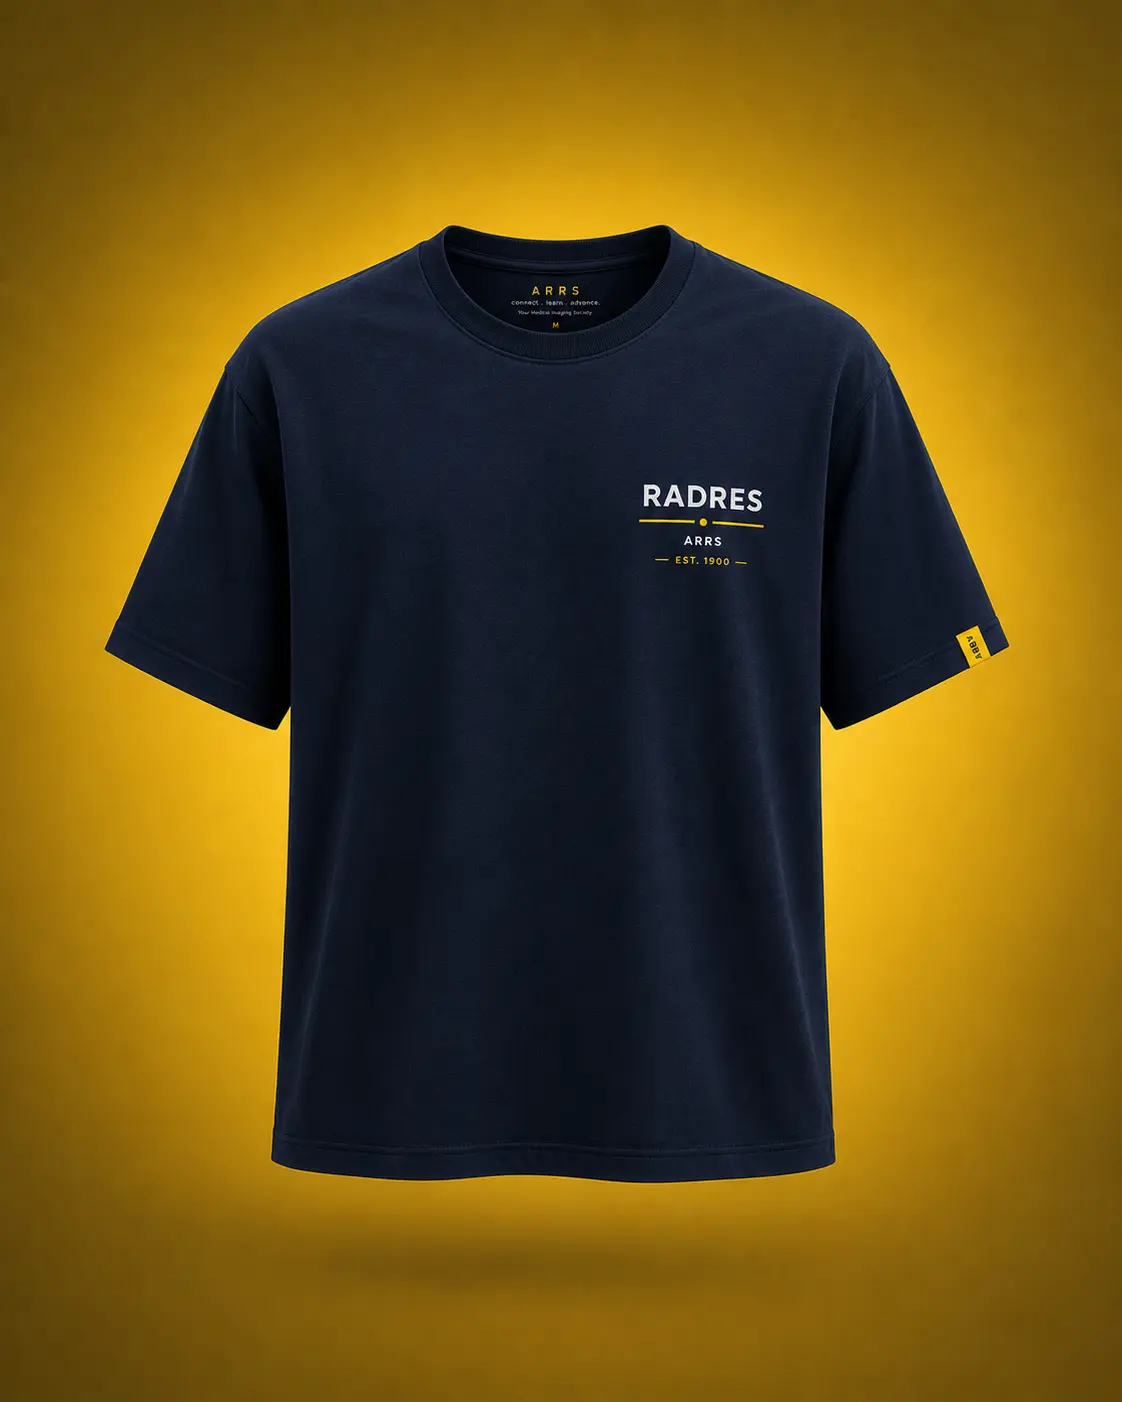
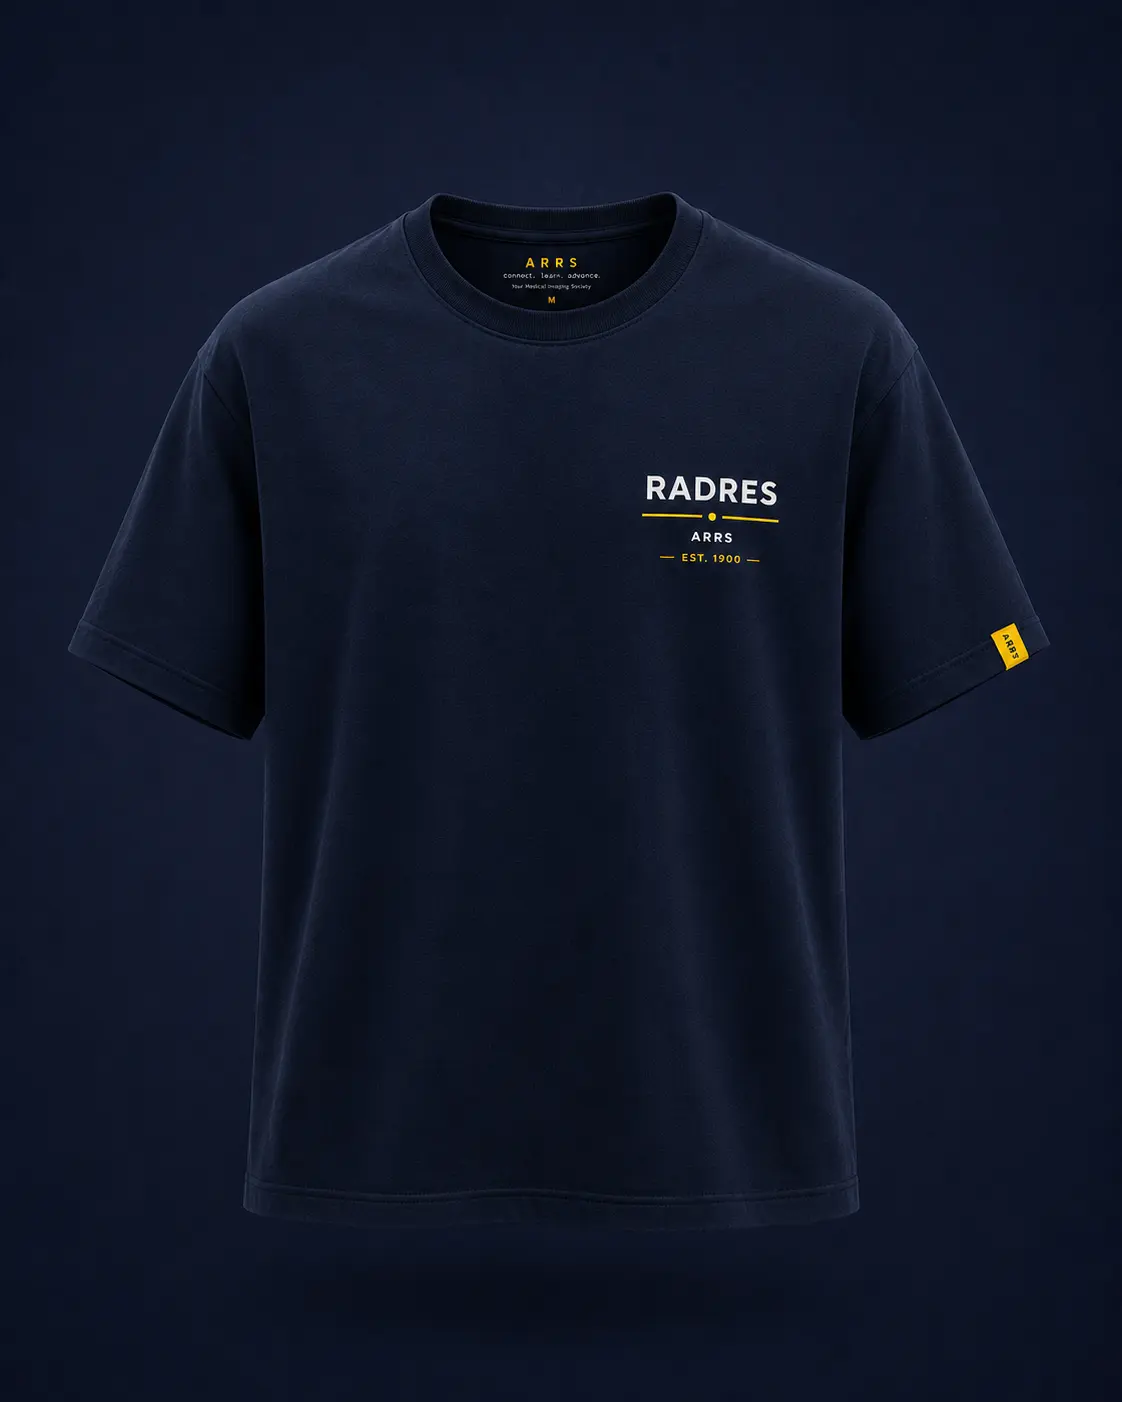
Pick up the replaced mug and RADRES artwork, and letterbox the off-ratio one
The new files were on disk but the page kept rendering the old ones. Next's
image optimizer caches by source URL and the URL does not change when the file
behind it does; clearing .next/cache/images was not enough because Turbopack
keeps a second persistent cache. Only a full rm -rf .next picked them up. Noted
in the image brief, since this will happen again on the next replacement.

The replacements fix the consistency problem the first batch had — all four now
share a near-black navy ground, measured from #010206 to #0D1328 at the corners,
so the deck's peeking slivers finally read as one set.

mugs.webp arrived landscape at 1402x1122 rather than 4:5. object-cover took
36.2% of the width, 18.1% off each side, which removed the navy mug's handle
entirely and clipped the white one's. Rather than ship an amputated product
shot, Product gains an optional fit and ground: contain shows the whole frame,
and the card paints the photo's own corner colour behind it so the letterbox
reads as the backdrop rather than as bars. The other three are untouched at
cover.

Widening store.products to readonly Product[] in the deck was needed because
`as const satisfies` narrows each entry to its own literal type, so fields
present on only one product drop out of the union.

This is a holding measure. Round-three instructions in the brief ask for mugs
at 1122x1402 portrait; once it lands, deleting fit and ground restores it to
filling the card like the rest.

diff --git a/components/sections/StoreDeck.tsx b/components/sections/StoreDeck.tsx
@@ -4,9 +4,9 @@ import { useCallback, useEffect, useRef, useState } from "react";
 import Image from "next/image";
 import Link from "next/link";
 import { ArrowUpRight } from "lucide-react";
-import { productImage, store } from "@/lib/content";
+import { productImage, store, type Product } from "@/lib/content";
 
-const products = store.products;
+const products: readonly Product[] = store.products;
 const count = products.length;
 
 // Depth slots, front to back. Card width is 76% of the stage, so the deepest
@@ -91,6 +91,7 @@ export function StoreDeck() {
                   href={store.cta.href}
                   tabIndex={isActive ? undefined : -1}
                   aria-label={`${product.name} — shop the store`}
+                  style={product.ground ? { backgroundColor: product.ground } : undefined}
                   className="store-card group relative block h-full overflow-hidden rounded-[var(--radius-card)]"
                 >
                   <Image
@@ -98,7 +99,9 @@ export function StoreDeck() {
                     alt={`${product.name} from the ARRS store`}
                     fill
                     sizes="(min-width: 1024px) 26rem, 76vw"
-                    className="object-cover transition-transform duration-700 ease-[var(--ease-hero)] group-hover:scale-[1.03]"
+                    className={`transition-transform duration-700 ease-[var(--ease-hero)] group-hover:scale-[1.03] ${
+                      product.fit === "contain" ? "object-contain" : "object-cover"
+                    }`}
                   />
                   {/* The name is already the index row two columns left, so
                       printing it again here was redundant. The link keeps its

diff --git a/lib/content.ts b/lib/content.ts
@@ -228,6 +228,15 @@ export interface Product {
    * Generation brief: `resources/store-image-brief.md`.
    */
   readonly src?: string;
+  /**
+   * Set when the artwork is not 4:5. `cover` would crop it to fit the stage —
+   * mugs.webp is 1402x1122 landscape and lost 18% off each side, taking both
+   * handles with it. `contain` shows the whole frame; pair it with `ground` so
+   * the letterbox reads as the photo's own backdrop rather than as bars.
+   */
+  readonly fit?: "cover" | "contain";
+  /** The artwork's own background, sampled from its corners. */
+  readonly ground?: string;
 }
 
 export const store = {
@@ -240,7 +249,13 @@ export const store = {
   products: [
     { id: "hoodie", name: "Hoodie", src: "/store/hoodie-navy.webp" },
     { id: "roentgen-ray-tee", name: "Roentgen Ray tee", src: "/store/roentgen-ray-tee.webp" },
-    { id: "mugs", name: "Mugs", src: "/store/mugs.webp" },
+    {
+      id: "mugs",
+      name: "Mugs",
+      src: "/store/mugs.webp",
+      fit: "contain",
+      ground: "#0C1327",
+    },
     { id: "radres-tee", name: "RADRES tee", src: "/store/radres-tee.webp" },
   ],
 } as const satisfies {

diff --git a/resources/store-image-brief.md b/resources/store-image-brief.md
@@ -237,3 +237,40 @@ Society` on the neck labels. That is fine for a mockup and reads convincingly.
 It is **not** the society's real logo, and the invented-data ledger in
 `CLAUDE.md` records it as placeholder branding to be replaced before this is
 shown as anything but a portfolio piece.
+
+
+---
+
+# Round three — one file left
+
+The replaced `mugs` and `radres-tee` fixed the consistency problem. All four
+now share a near-black navy ground, measured:
+
+| file | corner | centre-top |
+|---|---|---|
+| `hoodie-navy.webp` | `#060B17` | `#0D1728` |
+| `roentgen-ray-tee.webp` | `#010206` | `#081122` |
+| `radres-tee.webp` | `#0B1222` | `#131B2F` |
+| `mugs.webp` | `#0D1328` | `#151C35` |
+
+## `mugs.webp` needs one more pass — it is landscape
+
+It came back **1402 × 1122**, which is 1.25 wide rather than 0.8 tall. Cropping
+it to the card cost 36.2% of the width, 18.1% off each side, which removed the
+navy mug's handle completely and clipped the white one's.
+
+The page now renders it letterboxed instead of cropped so nothing is amputated,
+with the card taking the photo's own ground colour so the bands blend. The mugs
+still sit smaller in frame than the other three.
+
+Regenerate it as **1122 × 1402 portrait** — same scene, same lighting, same
+navy ground, just a taller frame with the two mugs arranged to fill it. Then
+delete the `fit` and `ground` fields from the mugs entry in `lib/content.ts`
+and it goes back to filling the card like the rest.
+
+## If images ever look unchanged after replacing them
+
+Next's image optimizer caches by source URL, and the URL does not change when
+the file behind it does. Clearing `.next/cache/images` is **not** enough —
+Turbopack keeps a second persistent cache. Stop the dev server, `rm -rf .next`,
+and restart. A browser hard-reload alone will not do it either.
